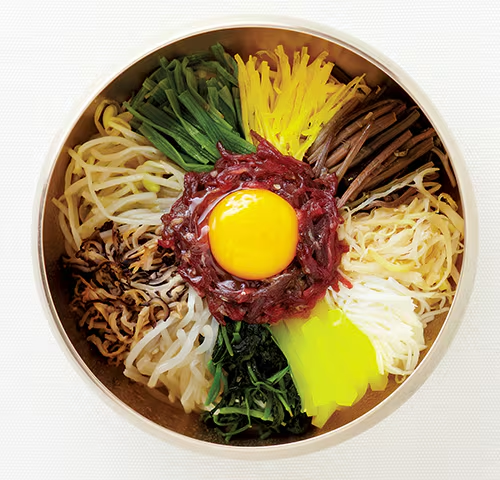
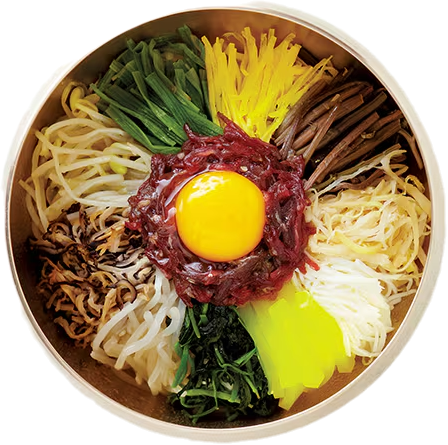
Design: stage4 전체 room에 테이블 사진 추가
테이블 사진 추가 및 stage4에 쓰이는 사진들 변경

diff --git a/client/src/pages/Stage4Room1.module.css b/client/src/pages/Stage4Room1.module.css
@@ -13,7 +13,7 @@
   left: 2vw;
   background-color: #C1A693; 
   font-family: 'MapoAgape', sans-serif;
-  font-size: 2vw;
+  font-size: 2.5vw;
   text-align: center; /* 텍스트 정렬 */
   border-radius: 10px; /* 둥근 모서리 */
   padding: 1.5vw; /* 내부 여백 */
@@ -22,19 +22,19 @@
 
 .KimChunsamWrapper {
   position: fixed;
-  top: 17vh;
-  left: 32vw;
+  top: 19vh;
+  left: 34vw;
   display: flex;
   justify-content: center;
   /* align-items: center; */
-  border: 2px dashed #c1a693; /* 드롭 영역 테두리  */
+  /* border: 2px dashed #c1a693; 드롭 영역 테두리  */
   background-color: rgba(255, 255, 255, 0.5); /* 배경색 투명도 */
   border-radius: 8px; /* 드롭 영역 둥글게 */
 }
 
 .KimChunsam {
   width: auto;
-  height: 40vh;
+  height: 45vh;
   object-fit: contain; /* 이미지 비율 유지 */
 }
 
@@ -59,17 +59,16 @@
   object-fit: contain; /* 이미지 비율 유지 */
 }
 
-
 .Guns {
   position: fixed;
   top: 73vh;
-  left: 29vw;
+  left: 20vw;
   display: flex;
   gap: 5vw; /* 총 이미지 간의 간격 */
 }
 
 .Guns img {
-  width: 14vh;
+  width: 25vh;
   height: auto;
   cursor: grab;
   border-radius: 8px; /* 총 이미지 둥글게 */
@@ -79,4 +78,13 @@
 .Guns img:active {
   cursor: grabbing;
   transform: scale(1.1); /* 드래그 중 확대 효과 */
+}
+
+.Table{
+  position: fixed;
+  top: 80vh;
+  left: 8vw;
+  width: 70vw;
+  height: auto;
+  z-index: -1;
 }

diff --git a/client/src/pages/Stage4Room1.js b/client/src/pages/Stage4Room1.js
@@ -2,11 +2,12 @@ import React, { useState, useEffect } from 'react';
 import { useNavigate } from 'react-router-dom';
 import styles from './Stage4Room1.module.css';
 import Inventory from '../components/Inventory.js';
-import KimChunsam from 'assets/stage4/KimChunsam.png';
 import Heart from 'assets/stage4/Heart.png';
+import KimChunsam from 'assets/stage4/KimChunsam.png';
 import Gun_Black from 'assets/stage4/Gun_Black.png';
 import Gun_Gray from 'assets/stage4/Gun_Gray.png';
 import Gun_White from 'assets/stage4/Gun_White.png';
+import Table from 'assets/stage4/Table.png';
 
 function Stage4Room1() {
   const navigate = useNavigate();
@@ -93,6 +94,7 @@ function Stage4Room1() {
           alt="Gun_White"
         />
       </div>
+      <img className={styles.Table} src={Table} alt="Table" />
     </div>
   );
 }
